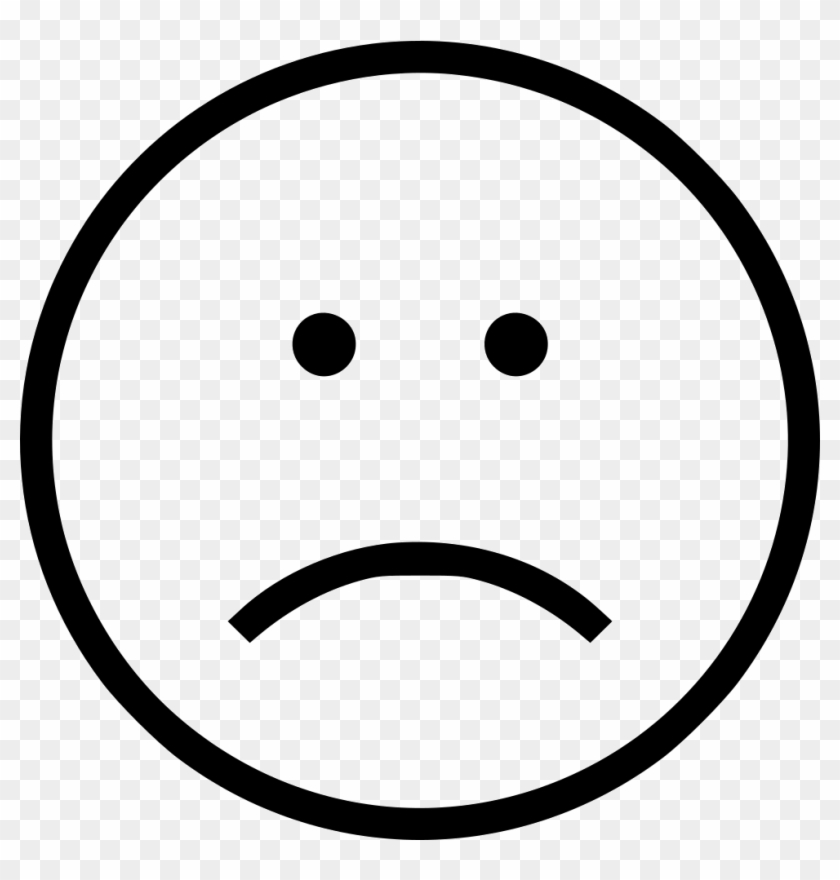
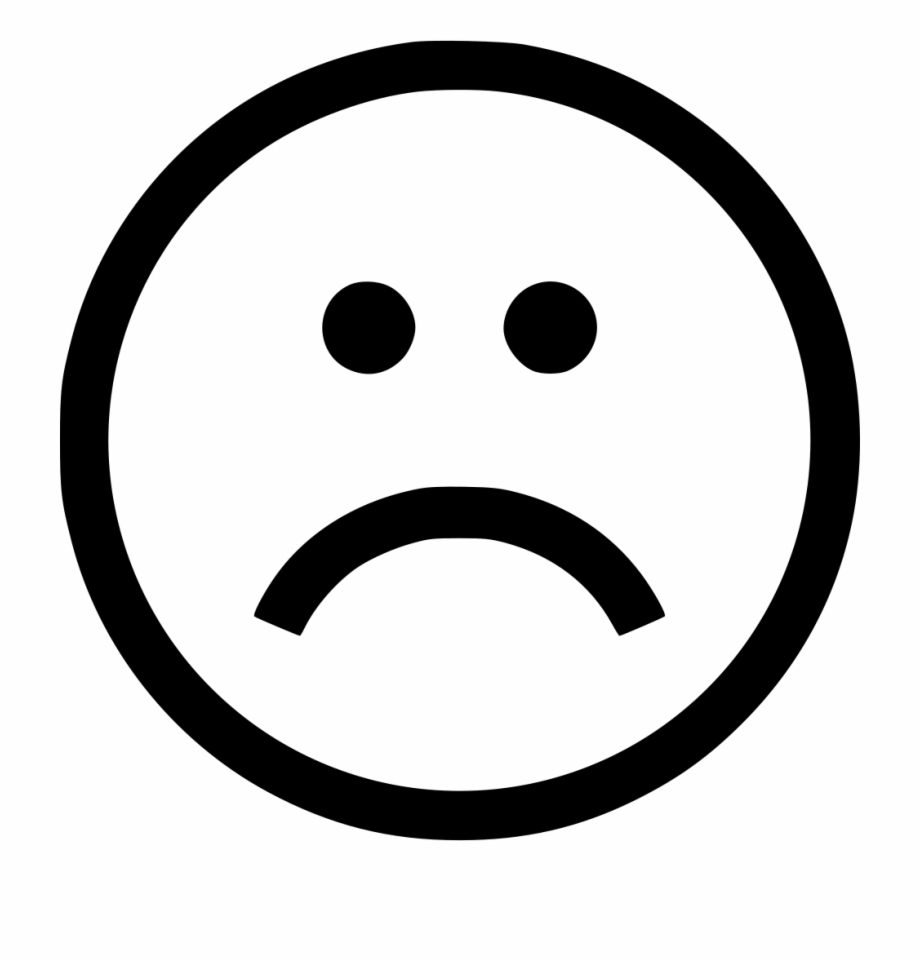
Fix #63

Changed region(s): [[0.0, 0.0307, 0.9905, 0.9818], [0.5262, 0.2761, 0.65, 0.4295], [0.3405, 0.2761, 0.4643, 0.4295]]

diff --git a/src/app/shared/dialogs/error-dialog/error-dialog.ts b/src/app/shared/dialogs/error-dialog/error-dialog.ts
@@ -27,7 +27,7 @@ export class ErrorDialog implements OnInit {
     } else {
       this.title = '¡Vaya!';
       this.description = 'Lo sentimos, algo no ha ido bien. Vuelve a intentarlo más tarde.';
-      this.image = '../../assets/images/sad.jpg';
+      this.image = '../../assets/images/sad.png';
     }
   }
 
